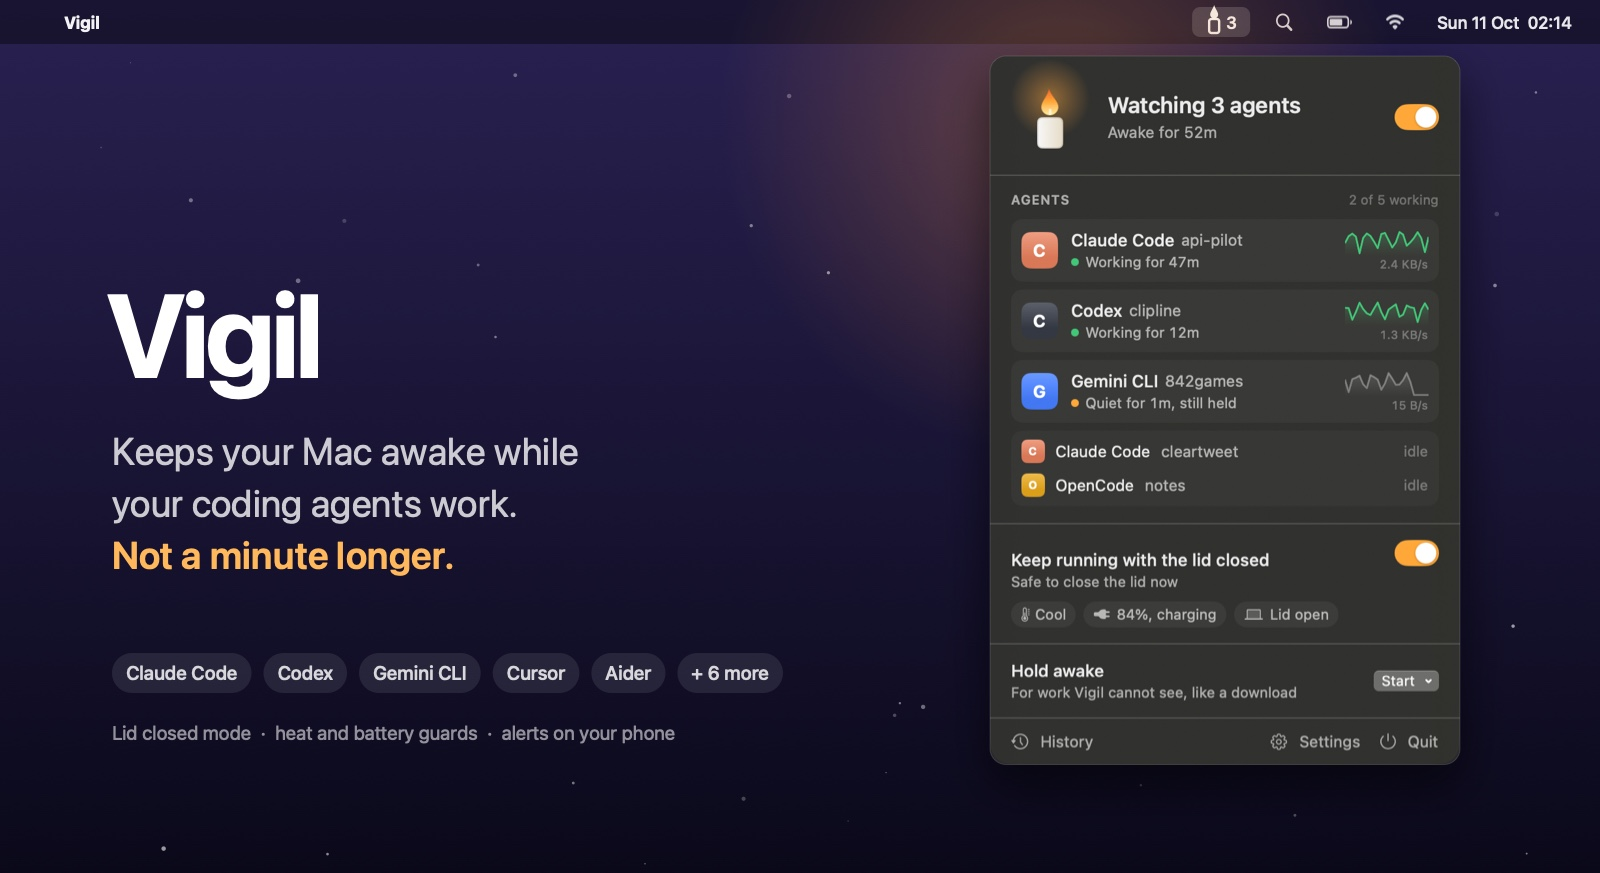
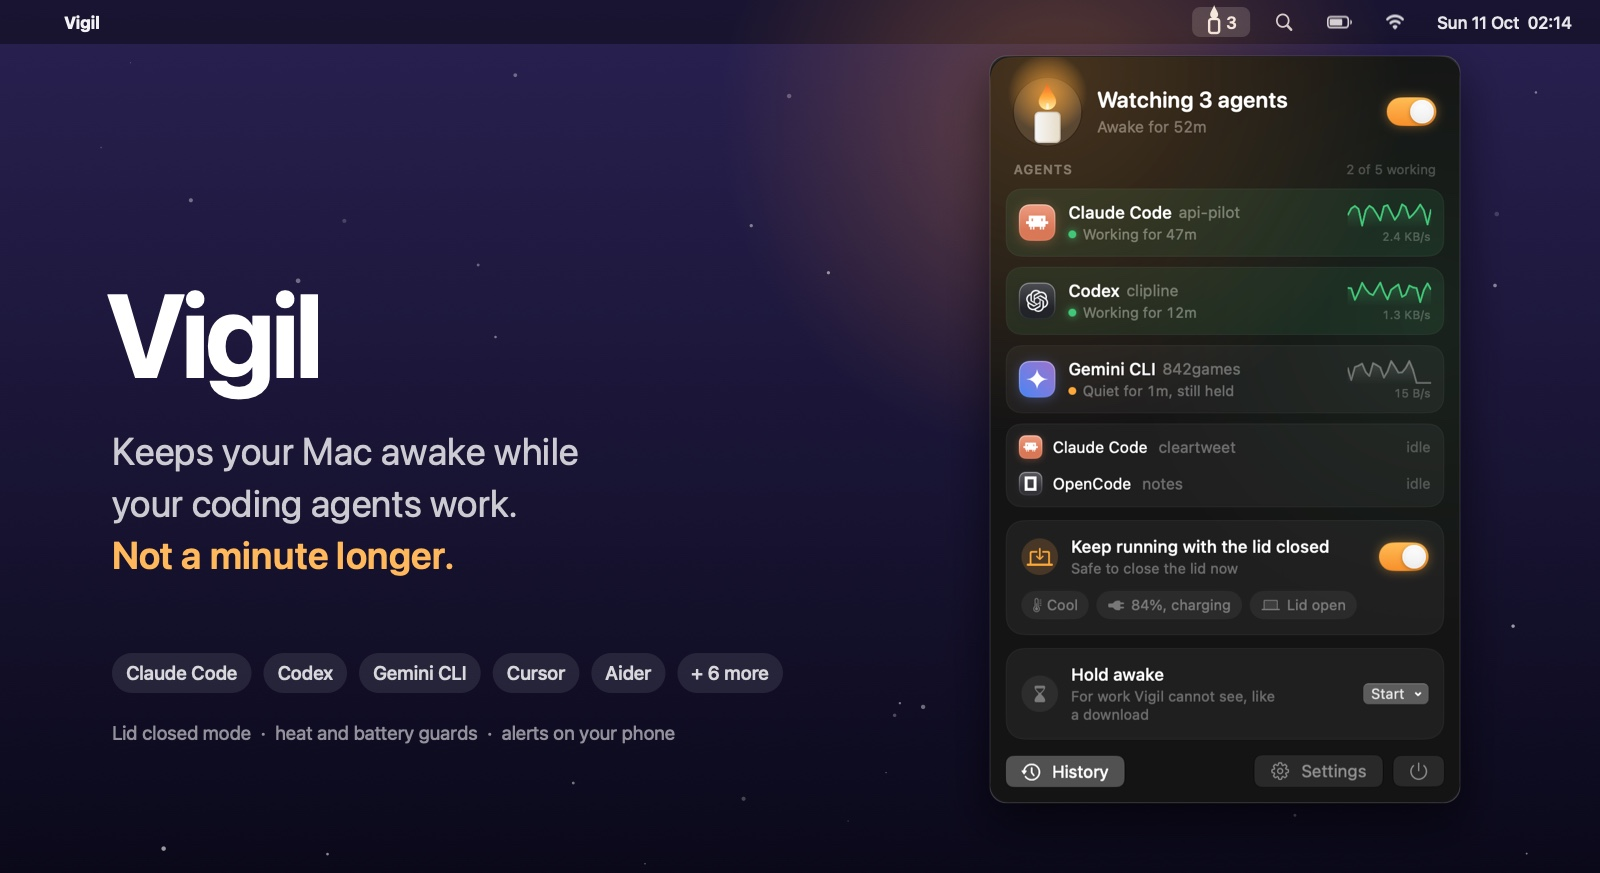
Let the panel size its own window so history always scrolls, use the amber switch everywhere and refresh the README screenshot

Changed region(s): [[0.5938, 0.0619, 0.9375, 0.9278]]

diff --git a/Sources/VigilApp/PanelView.swift b/Sources/VigilApp/PanelView.swift
@@ -5,11 +5,20 @@ struct PanelView: View {
     @EnvironmentObject var model: AppModel
     @Environment(\.openSettings) private var openSettings
     @State private var showHistory = false
+    @State private var window: NSWindow?
+    @State private var panelHeight: CGFloat = 0
+    /// Height of the header, footer and padding around the scrolling middle.
+    @State private var chrome: CGFloat = 150
+    @State private var headerHeight: CGFloat = 0
+    @State private var footerHeight: CGFloat = 0
+    /// The tallest the window can be on its screen, below its top edge.
+    @State private var room: CGFloat = NSScreen.main?.visibleFrame.height ?? 800
 
     var body: some View {
         GlassGroup(spacing: 0) {
             VStack(alignment: .leading, spacing: 10) {
                 header
+                    .onGeometryChange(for: CGFloat.self) { $0.size.height } action: { headerHeight = $0; updateChrome() }
                 // The menu bar cannot scroll its window, so everything between
                 // the header and the footer scrolls once it is taller than
                 // the screen allows, such as with history open.
@@ -38,20 +47,44 @@ struct PanelView: View {
                     }
                 }
                 footer
+                    .onGeometryChange(for: CGFloat.self) { $0.size.height } action: { footerHeight = $0; updateChrome() }
             }
             .padding(12)
             .fixedSize(horizontal: false, vertical: true)
         }
         .frame(width: 360)
         .background(PanelBackdrop(lit: model.isAwake))
+        .background(WindowReader { window = $0; fitWindow() })
+        .onGeometryChange(for: CGFloat.self) { $0.size.height } action: { panelHeight = $0; fitWindow() }
         .onAppear { model.tick() }
     }
 
-    /// Room for the scrolling middle: the visible screen less the menu bar
-    /// gap, the header and the footer.
+    /// Room for the scrolling middle: what the screen allows below the
+    /// window's top edge, less the header and footer.
     private var maxScrollHeight: CGFloat {
-        let screen = NSScreen.main?.visibleFrame.height ?? 800
-        return max(240, screen - 190)
+        max(200, room - chrome)
+    }
+
+    private func updateChrome() {
+        chrome = headerHeight + footerHeight + 12 * 2 + 10 * 2
+    }
+
+    /// The menu bar sizes its window once, when it opens, and does not
+    /// reliably follow the panel after that. Opening history then left the
+    /// bottom cut off with nothing to scroll, and a shrinking panel left
+    /// empty glass above and below it. So the panel sizes its own window,
+    /// keeping the top edge under the menu bar where it is.
+    private func fitWindow() {
+        guard let window, panelHeight > 0 else { return }
+        if let screen = window.screen {
+            room = window.frame.maxY - screen.visibleFrame.minY - 12
+        }
+        var frame = window.frame
+        let target = window.frameRect(forContentRect: NSRect(x: 0, y: 0, width: frame.width, height: panelHeight)).height
+        guard abs(frame.height - target) > 0.5 else { return }
+        frame.origin.y = frame.maxY - target
+        frame.size.height = target
+        window.setFrame(frame, display: true)
     }
 
     // MARK: Header
@@ -251,6 +284,29 @@ struct PanelView: View {
         .controlSize(.regular)
         .glassButton()
         .padding(.top, 2)
+    }
+}
+
+/// Hands back the window a view is in, once it is in one.
+struct WindowReader: NSViewRepresentable {
+    var found: (NSWindow) -> Void
+
+    func makeNSView(context: Context) -> NSView { Probe(found: found) }
+    func updateNSView(_ view: NSView, context: Context) {}
+
+    private final class Probe: NSView {
+        let found: (NSWindow) -> Void
+        init(found: @escaping (NSWindow) -> Void) {
+            self.found = found
+            super.init(frame: .zero)
+        }
+        required init?(coder: NSCoder) { nil }
+
+        override func viewDidMoveToWindow() {
+            super.viewDidMoveToWindow()
+            guard let window else { return }
+            DispatchQueue.main.async { [found] in found(window) }
+        }
     }
 }
 

diff --git a/Sources/VigilApp/VigilApp.swift b/Sources/VigilApp/VigilApp.swift
@@ -45,12 +45,9 @@ final class AppDelegate: NSObject, NSApplicationDelegate {
             NSApp.appearance = NSAppearance(named: style == "dark" ? .darkAqua : .aqua)
         }
         if UserDefaults.standard.bool(forKey: "VigilPreviewWindow") {
-            let window = NSWindow(contentRect: .zero, styleMask: [.titled, .closable, .fullSizeContentView], backing: .buffered, defer: false)
-            window.titlebarAppearsTransparent = true
-            window.titleVisibility = .hidden
-            for button in [NSWindow.ButtonType.closeButton, .miniaturizeButton, .zoomButton] {
-                window.standardWindowButton(button)?.isHidden = true
-            }
+            let window = PreviewWindow(contentRect: .zero, styleMask: [.borderless], backing: .buffered, defer: false)
+            window.isMovableByWindowBackground = true
+            window.hasShadow = true
             let hosting = NSHostingView(rootView: PanelView().environmentObject(model))
             let size = hosting.fittingSize
             if #available(macOS 26.0, *) {
@@ -76,8 +73,6 @@ final class AppDelegate: NSObject, NSApplicationDelegate {
                 window.contentView = effect
             }
             window.setContentSize(size)
-            // Wrapped text settles a pass later and makes the panel taller.
-            DispatchQueue.main.async { window.setContentSize(hosting.fittingSize) }
             window.center()
             window.makeKeyAndOrderFront(nil)
             NSApp.setActivationPolicy(.regular)
@@ -89,4 +84,10 @@ final class AppDelegate: NSObject, NSApplicationDelegate {
     func applicationWillTerminate(_ notification: Notification) {
         model.shutDown()
     }
+}
+
+/// A borderless window that can still be key, so controls draw as active.
+final class PreviewWindow: NSWindow {
+    override var canBecomeKey: Bool { true }
+    override var canBecomeMain: Bool { true }
 }

diff --git a/Sources/VigilApp/Candle.swift b/Sources/VigilApp/Candle.swift
@@ -132,15 +132,21 @@ struct FlameSwitch: ToggleStyle {
         } label: {
             ZStack(alignment: configuration.isOn ? .trailing : .leading) {
                 Capsule()
-                    .fill(configuration.isOn ? Color.flame : Color.primary.opacity(0.16))
-                    .frame(width: 34, height: 20)
+                    .fill(configuration.isOn
+                          ? AnyShapeStyle(LinearGradient(colors: [Color(red: 1, green: 0.74, blue: 0.33), Color(red: 0.97, green: 0.56, blue: 0.16)],
+                                                         startPoint: .top, endPoint: .bottom))
+                          : AnyShapeStyle(Color.primary.opacity(0.16)))
+                    .overlay(Capsule().strokeBorder(Color.black.opacity(0.08), lineWidth: 0.5))
+                    .shadow(color: configuration.isOn ? Color.flame.opacity(0.45) : .clear, radius: 4)
+                    .frame(width: 38, height: 22)
                 Circle()
-                    .fill(.white)
-                    .shadow(color: .black.opacity(0.25), radius: 1, y: 0.5)
-                    .frame(width: 16, height: 16)
+                    .fill(LinearGradient(colors: [.white, Color(white: 0.93)], startPoint: .top, endPoint: .bottom))
+                    .overlay(Circle().strokeBorder(Color.white.opacity(0.8), lineWidth: 0.5))
+                    .shadow(color: .black.opacity(0.25), radius: 1.5, y: 1)
+                    .frame(width: 18, height: 18)
                     .padding(2)
             }
-            .animation(.easeInOut(duration: 0.15), value: configuration.isOn)
+            .animation(.spring(response: 0.25, dampingFraction: 0.75), value: configuration.isOn)
         }
         .buttonStyle(.plain)
         .accessibilityRepresentation { Toggle(isOn: configuration.$isOn) { configuration.label } }

diff --git a/Sources/VigilApp/Glass.swift b/Sources/VigilApp/Glass.swift
@@ -50,22 +50,17 @@ struct GlassGroup<Content: View>: View {
     }
 }
 
-/// A switch tinted with the candle's amber. macOS 26 draws its own glass
-/// switch; older systems get the hand drawn one.
+/// A switch in the candle's amber. The system switch on macOS always takes
+/// the accent colour and ignores a tint, so Vigil draws its own.
 struct AmberToggle: View {
     @Binding var isOn: Bool
     var help: String
 
     var body: some View {
-        Group {
-            if #available(macOS 26.0, *) {
-                Toggle("", isOn: $isOn).toggleStyle(.switch).tint(.flame)
-            } else {
-                Toggle("", isOn: $isOn).toggleStyle(FlameSwitch())
-            }
-        }
-        .labelsHidden()
-        .help(help)
+        Toggle("", isOn: $isOn)
+            .toggleStyle(FlameSwitch())
+            .labelsHidden()
+            .help(help)
     }
 }
 

diff --git a/scripts/make-hero.swift b/scripts/make-hero.swift
@@ -50,8 +50,8 @@ func text(_ string: String, size: CGFloat, weight: NSFont.Weight, color: NSColor
 }
 
 // The panel hangs under the candle in the menu bar.
-let crop: CGFloat = 50 // the title bar of the preview window
-let source = NSRect(x: 0, y: 0, width: panel.size.width, height: panel.size.height - crop * panel.size.height / 1122)
+// The preview window is borderless, so the capture is the panel alone.
+let source = NSRect(x: 0, y: 0, width: panel.size.width, height: panel.size.height)
 let panelWidth: CGFloat = 470
 let panelHeight = panelWidth * source.height / source.width
 let panelRect = CGRect(x: width - 140 - panelWidth, y: height - barHeight - 12 - panelHeight, width: panelWidth, height: panelHeight)
